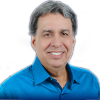
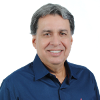
Changed profile photo and text align to justify.

diff --git a/public/index.htm b/public/index.htm
@@ -88,7 +88,7 @@
 	<section id="profile" class="profile">
 		<div class="container">
 			<!-- profile content -->
-			<div class="col-md-8 profile-content">		
+			<div class="col-md-8 profile-content" style="text-align: justify">		
         <p>O Crea-GO é hoje uma instituição importante, imprescindível para o exercício proﬁssional. A 
 nossa sociedade não faz ideia do verdadeiro valor dos serviços prestados pelo proﬁssional da 
 engenharia e da agronomia. Hoje somos mais de 30.000 proﬁssionais cujos trabalhos têm a 
